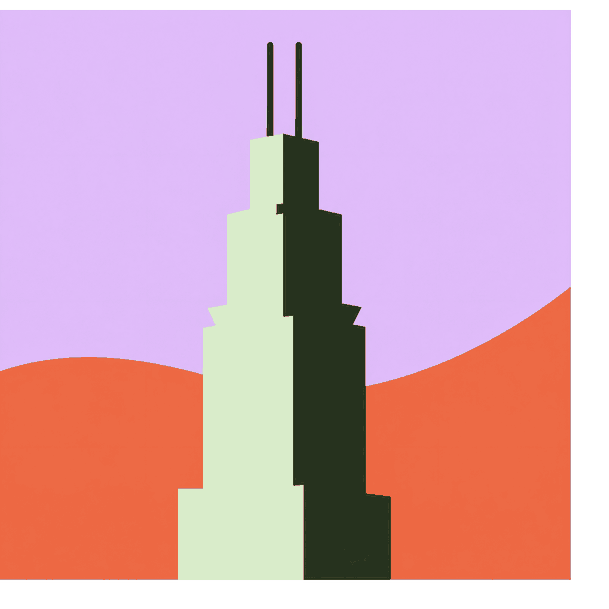
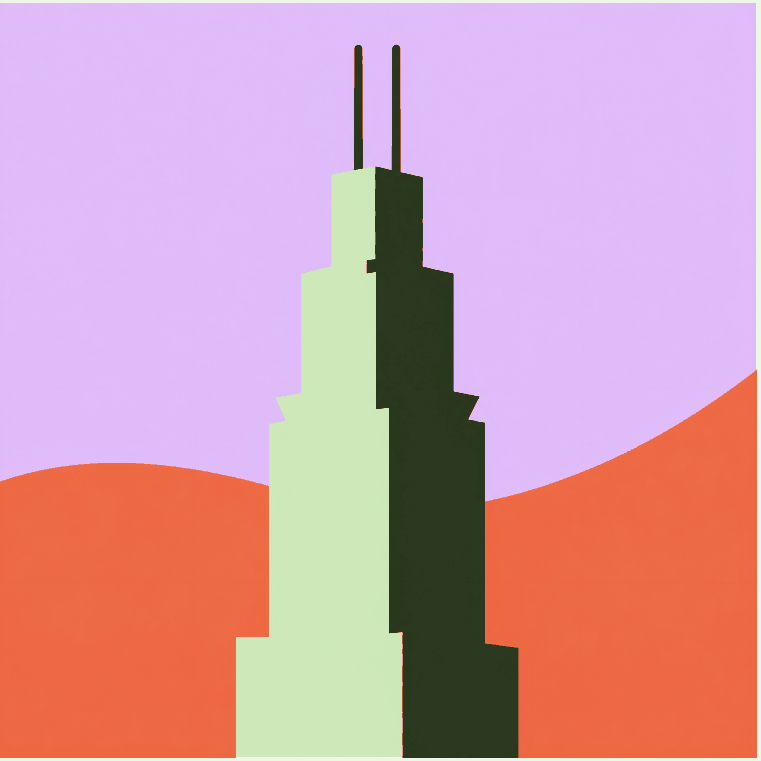
Crop the brand references tight, and add two more chapters
The first pass left white margin around every logo and derived the icon
crop by assuming a square at the left edge, which came out off centre.
Both are fixed. Lockups are now cropped to the artwork with no padding,
using the alpha channel on the transparent sources. Icon crops locate the
icon by its own palette, since lavender and orange appear nowhere else in
the lockup, and walk the contiguous run of icon columns so anti-aliased
specks in the wordmark cannot drag the bounds out.

Adds the two canonical marks bundled with the logo generator skill: the
Climate Tech Cities parent mark and Climate Tech New York. Four chapters
now, six files. Chicago and London come from 2000px sources and carry the
proportions; Cities and New York only exist small, so they render at
native size rather than upscaling, and the page says which to lean on.

Changed region(s): [[0.0, 0.0, 0.9984, 0.9984]]

diff --git a/index.html b/index.html
@@ -135,6 +135,9 @@
   /* logo references */
   .logo-fig { background: var(--white); border-radius: 12px; box-shadow: var(--card-shadow); padding: 18px; margin: 0; }
   .logo-fig img { width: 100%; height: auto; display: block; border-radius: 4px; }
+  /* low-resolution originals: show at native size rather than upscaling to mush */
+  .logo-fig.native { display: flex; flex-direction: column; justify-content: center; }
+  .logo-fig.native img { width: auto; max-width: 100%; margin: 0 auto; image-rendering: auto; }
   .logo-fig figcaption { font-size: 13.5px; color: var(--ink-soft); margin-top: 12px; font-weight: 500; }
 
   /* ---------- steps ---------- */
@@ -362,11 +365,19 @@
         <figcaption>Climate Tech Chicago</figcaption>
       </figure>
       <figure class="logo-fig">
-        <img src="downloads/brand/ctc-london.png" alt="Climate Tech London logo: the same square lavender icon format with an abstracted Big Ben silhouette, beside the words Climate Tech London stacked on three lines." loading="lazy" />
+        <img src="downloads/brand/ctc-london.png" alt="Climate Tech London logo: the same square lavender icon format with an abstracted clock tower silhouette, beside the words Climate Tech London stacked on three lines." loading="lazy" />
         <figcaption>Climate Tech London</figcaption>
       </figure>
+      <figure class="logo-fig native">
+        <img src="downloads/brand/ctc-cities.png" alt="Climate Tech Cities master logo: the square lavender icon with a generic stepped building silhouette, beside the words Climate Tech Cities stacked on three lines." loading="lazy" />
+        <figcaption>Climate Tech Cities · the parent mark every chapter descends from</figcaption>
+      </figure>
+      <figure class="logo-fig native">
+        <img src="downloads/brand/ctc-new-york.png" alt="Climate Tech New York logo: the square lavender icon with an abstracted tower silhouette, beside the words Climate Tech New York stacked on three lines." loading="lazy" />
+        <figcaption>Climate Tech New York</figcaption>
+      </figure>
     </div>
-    <p class="desc">Same lavender field, same orange horizon, same two greens, same wordmark. Chicago gets the Willis Tower, London gets the clock tower. That is the whole system.</p>
+    <p class="desc">Same lavender field, same orange horizon, same two greens, same wordmark, same proportions. Chicago gets the Willis Tower, London gets the clock tower, New York gets its own tower. Only the silhouette moves. That is the whole system, and matching it is the entire job.</p>
 
     <ol class="steps" style="margin-top:36px;">
       <li>
@@ -381,12 +392,19 @@
       <li>
         <h3>Attach the reference logos</h3>
         <p class="desc">Attach these to the same ChatGPT message. The prompt describes the house style in words, but the references are what actually hold it: without them you get something in the right colours and the wrong proportions.</p>
+        <p class="desc" style="margin-bottom:6px;"><strong>Attach these four.</strong> Between them they pin down the proportions, the palette and the range of silhouettes.</p>
         <ul class="dl-list">
-          <li><span><a href="downloads/brand/ctc-chicago.png" download>ctc-chicago.png</a> · full lockup, icon and wordmark</span><span class="pill time">reference</span></li>
-          <li><span><a href="downloads/brand/ctc-london.png" download>ctc-london.png</a> · full lockup, icon and wordmark</span><span class="pill time">reference</span></li>
-          <li><span><a href="downloads/brand/ctc-chicago-icon.png" download>ctc-chicago-icon.png</a> · icon only, for the silhouette treatment</span><span class="pill time">reference</span></li>
-          <li><span><a href="downloads/brand/ctc-london-icon.png" download>ctc-london-icon.png</a> · icon only, for the silhouette treatment</span><span class="pill time">reference</span></li>
+          <li><span><a href="downloads/brand/ctc-chicago.png" download>ctc-chicago.png</a> · full lockup, high resolution</span><span class="pill time">best reference</span></li>
+          <li><span><a href="downloads/brand/ctc-london.png" download>ctc-london.png</a> · full lockup, high resolution</span><span class="pill time">best reference</span></li>
+          <li><span><a href="downloads/brand/ctc-cities.png" download>ctc-cities.png</a> · the parent mark</span></li>
+          <li><span><a href="downloads/brand/ctc-new-york.png" download>ctc-new-york.png</a> · New York chapter</span></li>
         </ul>
+        <p class="desc" style="margin-bottom:6px;margin-top:20px;">Optional, and useful if the icon keeps coming back too busy. These are the icon squares on their own, with the wordmark cropped away:</p>
+        <ul class="dl-list">
+          <li><span><a href="downloads/brand/ctc-chicago-icon.png" download>ctc-chicago-icon.png</a> · icon only</span></li>
+          <li><span><a href="downloads/brand/ctc-london-icon.png" download>ctc-london-icon.png</a> · icon only</span></li>
+        </ul>
+        <div class="note">The Cities and New York marks are the canonical originals but only exist at small size, so lean on Chicago and London for proportions and use those two to confirm you have the right family.</div>
       </li>
       <li>
         <h3>Ask for ten concepts, then pick one</h3>

diff --git a/CHANGELOG.md b/CHANGELOG.md
@@ -88,3 +88,10 @@ All toolkit releases. The site reads `version.json`; this file is the human-read
 - Reference images are the real Chicago and London chapter logos, served as full lockups and icon-only crops
 - The city field moved above both parts and now fills four prompts instead of three
 - Nav, page title, hero and footer renamed. The newsletter half is unchanged
+
+## 5.1.0 - 2026-08-04
+
+- Brand reference logos are now cropped tight to the artwork with no white margin, using the alpha channel on the transparent sources
+- Icon crops are located by the icon's own palette and a contiguous column walk, instead of assuming a square at the left edge, which had produced off-centre crops
+- Added the two canonical marks from the logo generator skill: the Climate Tech Cities parent mark and Climate Tech New York. Four chapters shown, six files to download
+- Chicago and London are high resolution and carry the proportions; Cities and New York exist only at small size and render at native size rather than upscaling
